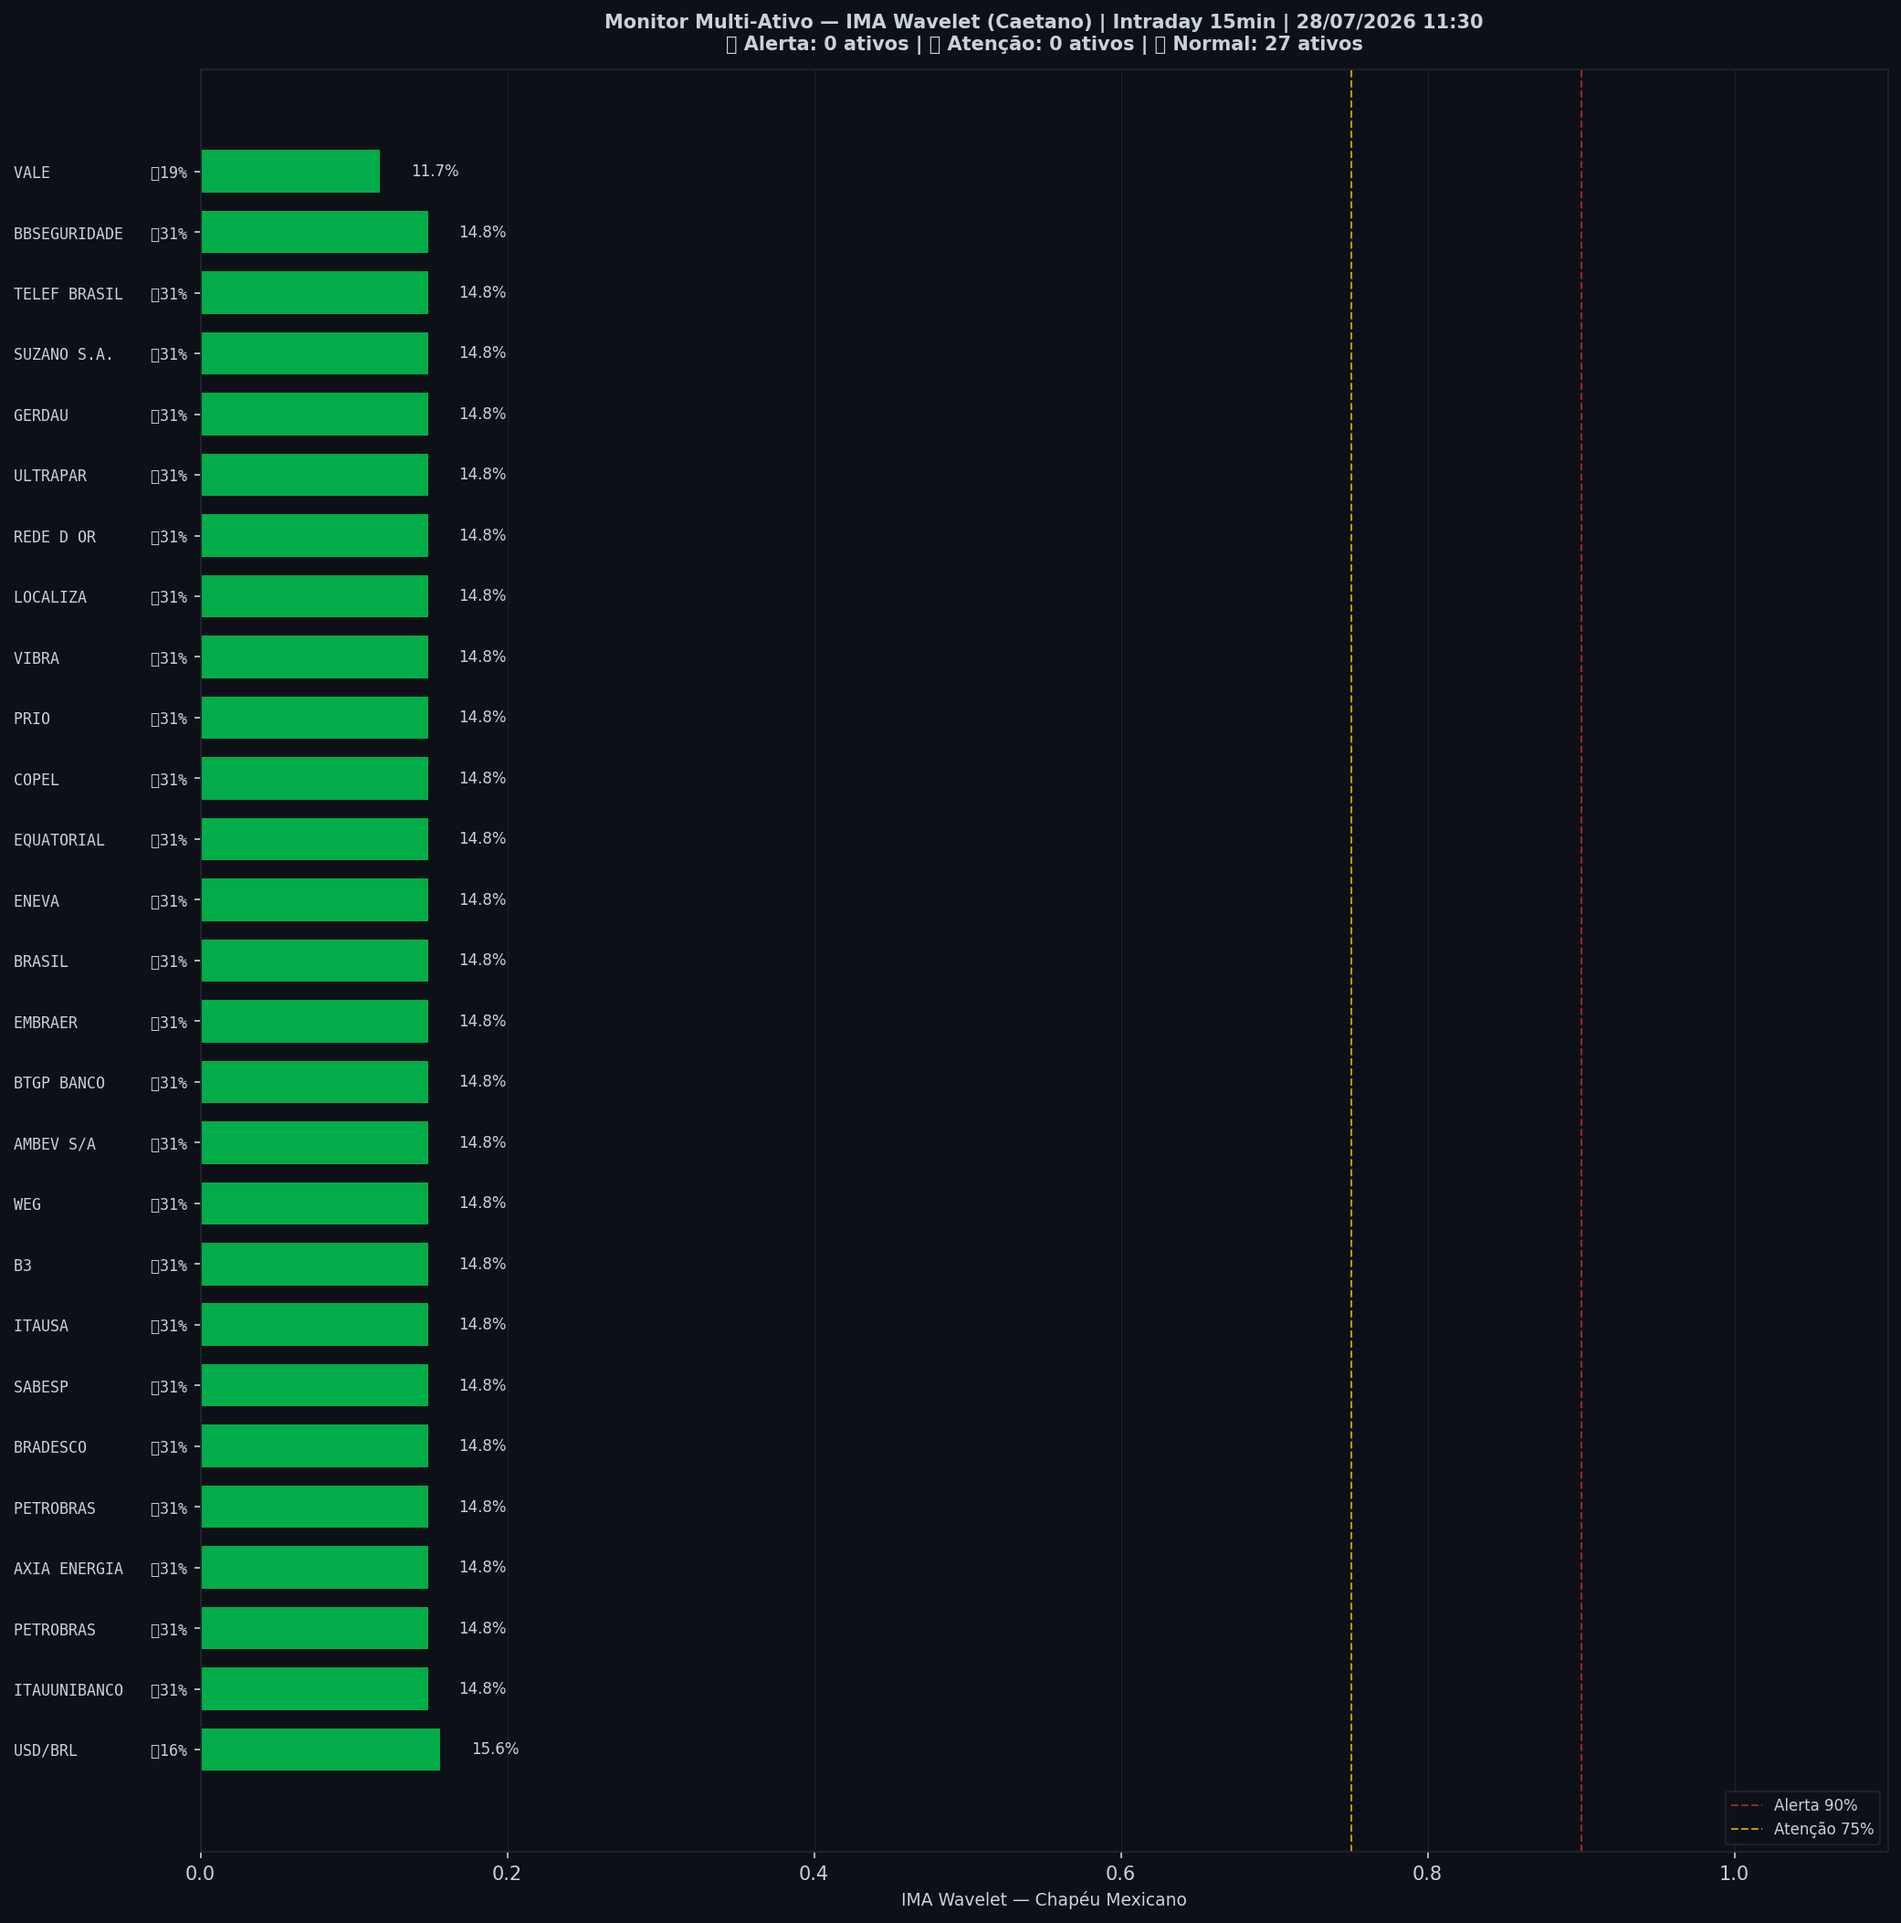
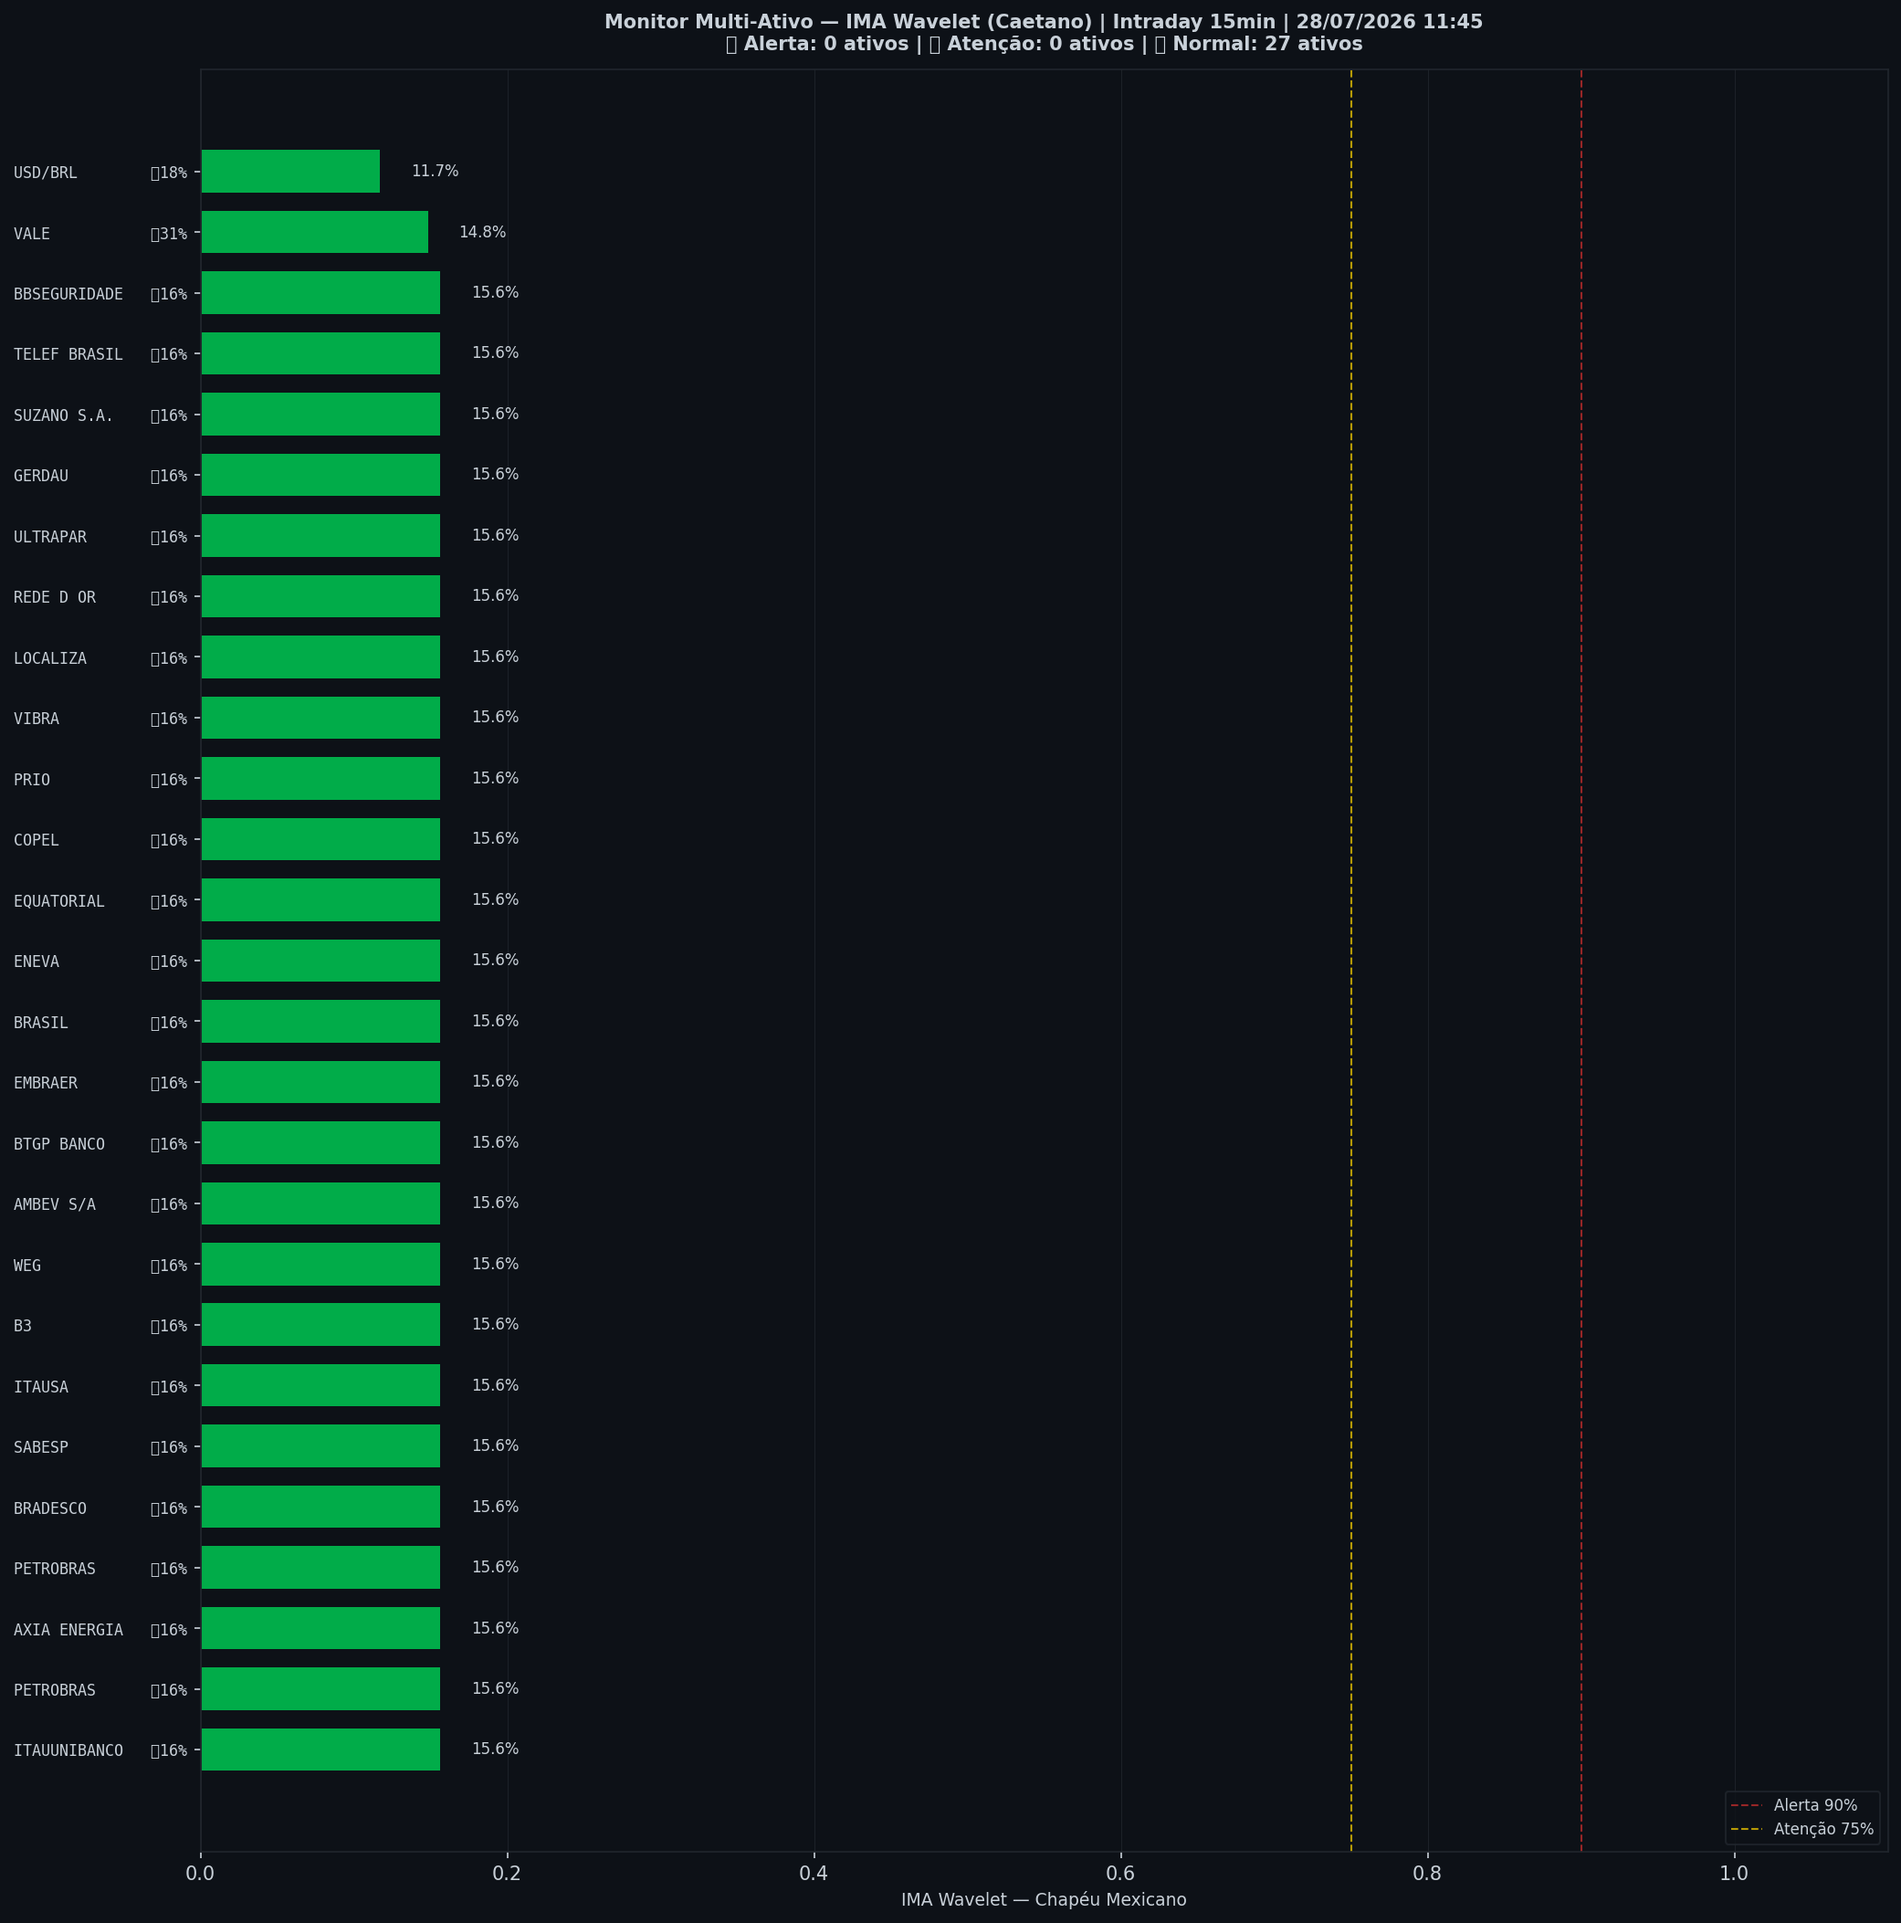
🤖 Auto: Sinal 28/07/2026 11:45

Changed region(s): [[0.2185, 0.1235, 0.2498, 0.8951], [0.0312, 0.1235, 0.0624, 0.1852], [0.0312, 0.8642, 0.0624, 0.8951]]

diff --git a/content/intraday/2026-07-28.md b/content/intraday/2026-07-28.md
@@ -1,20 +1,20 @@
 ---
-title: "🔴 Intraday 28/07/2026 10:45 BRT — VERMELHO"
+title: "🟢 Intraday 28/07/2026 11:00 BRT — VERDE"
 date: 2026-07-28
 tags: [intraday]
 ---
 
-> [!danger] 🔴 **VERMELHO** — Risco 100% · ▲ +71 p.p. vs leitura anterior
-> `████████████████████`
-> ALERTA DE CRISE — padrão pré-crise detectado.
+> [!success] 🟢 **VERDE** — Risco 36% · ▼ -64 p.p. vs leitura anterior
+> `███████░░░░░░░░░░░░░`
+> Mercado sem sinais relevantes de estresse.
 
 
 | Indicador | Valor |
 |---|---|
-| 🔴 ζ Crash — severidade da queda em curso | **100%** |
-| 🔵 ζ Entrada — estrutura de fundo | 0% |
+| 🔴 ζ Crash — severidade da queda em curso | **36%** |
+| 🔵 ζ Entrada — estrutura de fundo | 1% |
 | 🫧 LPPL DS-Confidence | 0% |
-| 📊 Ibovespa | 176.719 pts |
+| 📊 Ibovespa | 177.454 pts |
 
 ![Gráfico do sinal](../graficos/sinal_intraday.png)
 
@@ -22,6 +22,7 @@ tags: [intraday]
 
 | Data | Zona | Risco | IMA Crash | Entrada | LPPL |
 |---|---|---|---|---|---|
+| 2026-07-28 11:00 | 🟢 VERDE | **36%** | 36% | 1% | 0% |
 | 2026-07-28 10:45 | 🔴 VERMELHO | **100%** | 100% | 0% | 0% |
 | 2026-07-28 10:30 | 🟢 VERDE | **29%** | 29% | 1% | 0% |
 | 2026-07-28 10:15 | 🟢 VERDE | **25%** | 25% | 2% | 0% |
@@ -51,7 +52,6 @@ tags: [intraday]
 | 2026-07-27 11:15 | 🟢 VERDE | **5%** | 5% | 9% | 0% |
 | 2026-07-27 11:00 | 🟢 VERDE | **5%** | 5% | 13% | 0% |
 | 2026-07-27 10:45 | 🟢 VERDE | **4%** | 4% | 18% | 0% |
-| 2026-07-27 10:30 | 🟢 VERDE | **2%** | 2% | 26% | 0% |
 
 ## Monitor Multi-Ativo
 
@@ -59,37 +59,37 @@ tags: [intraday]
 
 | Zona | Ativo | Setor | IMA Crash | IMA Entrada |
 |---|---|---|---|---|
-| 🟢 | **USD/BRL** | Câmbio | 15.6% | 16.4% |
-| 🟢 | **ITAUUNIBANCO** | Financeiro | 14.8% | 31.2% |
-| 🟢 | **PETROBRAS** | Petróleo | 14.8% | 31.2% |
-| 🟢 | **AXIA ENERGIA** | Energia | 14.8% | 31.2% |
-| 🟢 | **PETROBRAS** | Petróleo | 14.8% | 31.2% |
-| 🟢 | **BRADESCO** | Financeiro | 14.8% | 31.2% |
-| 🟢 | **SABESP** | Saneamento | 14.8% | 31.2% |
-| 🟢 | **ITAUSA** | Financeiro | 14.8% | 31.2% |
-| 🟢 | **B3** | Financeiro | 14.8% | 31.2% |
-| 🟢 | **WEG** | Industrial | 14.8% | 31.2% |
-| 🟢 | **AMBEV S/A** | Consumo | 14.8% | 31.2% |
-| 🟢 | **BTGP BANCO** | Financeiro | 14.8% | 31.2% |
-| 🟢 | **EMBRAER** | Outros | 14.8% | 31.2% |
-| 🟢 | **BRASIL** | Financeiro | 14.8% | 31.2% |
-| 🟢 | **ENEVA** | Energia | 14.8% | 31.2% |
-| 🟢 | **EQUATORIAL** | Energia | 14.8% | 31.2% |
-| 🟢 | **COPEL** | Energia | 14.8% | 31.2% |
-| 🟢 | **PRIO** | Petróleo | 14.8% | 31.2% |
-| 🟢 | **VIBRA** | Energia | 14.8% | 31.2% |
-| 🟢 | **LOCALIZA** | Aluguel | 14.8% | 31.2% |
-| 🟢 | **REDE D OR** | Saúde | 14.8% | 31.2% |
-| 🟢 | **ULTRAPAR** | Outros | 14.8% | 31.2% |
-| 🟢 | **GERDAU** | Siderurgia | 14.8% | 31.2% |
-| 🟢 | **SUZANO S.A.** | Papel/Celulose | 14.8% | 31.2% |
-| 🟢 | **TELEF BRASIL** | Outros | 14.8% | 31.2% |
-| 🟢 | **BBSEGURIDADE** | Financeiro | 14.8% | 31.2% |
-| 🟢 | **VALE** | Mineração | 11.7% | 18.8% |
+| 🟢 | **ITAUUNIBANCO** | Financeiro | 15.6% | 16.4% |
+| 🟢 | **PETROBRAS** | Petróleo | 15.6% | 16.4% |
+| 🟢 | **AXIA ENERGIA** | Energia | 15.6% | 16.4% |
+| 🟢 | **PETROBRAS** | Petróleo | 15.6% | 16.4% |
+| 🟢 | **BRADESCO** | Financeiro | 15.6% | 16.4% |
+| 🟢 | **SABESP** | Saneamento | 15.6% | 16.4% |
+| 🟢 | **ITAUSA** | Financeiro | 15.6% | 16.4% |
+| 🟢 | **B3** | Financeiro | 15.6% | 16.4% |
+| 🟢 | **WEG** | Industrial | 15.6% | 16.4% |
+| 🟢 | **AMBEV S/A** | Consumo | 15.6% | 16.4% |
+| 🟢 | **BTGP BANCO** | Financeiro | 15.6% | 16.4% |
+| 🟢 | **EMBRAER** | Outros | 15.6% | 16.4% |
+| 🟢 | **BRASIL** | Financeiro | 15.6% | 16.4% |
+| 🟢 | **ENEVA** | Energia | 15.6% | 16.4% |
+| 🟢 | **EQUATORIAL** | Energia | 15.6% | 16.4% |
+| 🟢 | **COPEL** | Energia | 15.6% | 16.4% |
+| 🟢 | **PRIO** | Petróleo | 15.6% | 16.4% |
+| 🟢 | **VIBRA** | Energia | 15.6% | 16.4% |
+| 🟢 | **LOCALIZA** | Aluguel | 15.6% | 16.4% |
+| 🟢 | **REDE D OR** | Saúde | 15.6% | 16.4% |
+| 🟢 | **ULTRAPAR** | Outros | 15.6% | 16.4% |
+| 🟢 | **GERDAU** | Siderurgia | 15.6% | 16.4% |
+| 🟢 | **SUZANO S.A.** | Papel/Celulose | 15.6% | 16.4% |
+| 🟢 | **TELEF BRASIL** | Outros | 15.6% | 16.4% |
+| 🟢 | **BBSEGURIDADE** | Financeiro | 15.6% | 16.4% |
+| 🟢 | **VALE** | Mineração | 14.8% | 31.2% |
+| 🟢 | **USD/BRL** | Câmbio | 11.7% | 18.0% |
 
 ![Monitor multi-ativo](../graficos/multi_intraday.png)
 
-*Página atualizada em 28/07/2026 11:30 BRT (leitura da barra de 2026-07-28 10:45 BRT).*
+*Página atualizada em 28/07/2026 11:45 BRT (leitura da barra de 2026-07-28 11:00 BRT).*
 
 > [!info]- Como interpretar (clique para expandir)
 > - **ζ Crash**: fração dos coeficientes wavelet acima do corte (Caetano & Yoneyama 2009). Escala absoluta: ζ=0,90 = 90% dos coeficientes anômalos — historicamente, quedas com ζ≥0,90 foram mais fundas e mais longas. **Mede a severidade do movimento em curso, não prevê o início da queda.**

diff --git a/content/index.md b/content/index.md
@@ -4,23 +4,23 @@ date: 2026-07-28
 tags: [home]
 ---
 
-# 🔴 Sinal de Crise B3
+# 🟢 Sinal de Crise B3
 
 Monitoramento diário e intraday do Ibovespa — **IMA Wavelet** (Prof. Marco Antonio Leonel Caetano, ITA/INSPER) + **LPPL DS-Confidence** (Prof. Didier Sornette, ETH-Zurich).
 
-*Última atualização: 28/07/2026 11:30 BRT · ^BVSP · Intraday 15min · v4*
+*Última atualização: 28/07/2026 11:45 BRT · ^BVSP · Intraday 15min · v4*
 
-> [!danger] 🔴 **VERMELHO** — Risco 100% · ▲ +71 p.p. vs leitura anterior
-> `████████████████████`
-> ALERTA DE CRISE — padrão pré-crise detectado.
+> [!success] 🟢 **VERDE** — Risco 36% · ▼ -64 p.p. vs leitura anterior
+> `███████░░░░░░░░░░░░░`
+> Mercado sem sinais relevantes de estresse.
 
 
 | Indicador | Valor |
 |---|---|
-| 🔴 ζ Crash — severidade da queda em curso | **100%** |
-| 🔵 ζ Entrada — estrutura de fundo | 0% |
+| 🔴 ζ Crash — severidade da queda em curso | **36%** |
+| 🔵 ζ Entrada — estrutura de fundo | 1% |
 | 🫧 LPPL DS-Confidence | 0% |
-| 📊 Ibovespa | 176.719 pts |
+| 📊 Ibovespa | 177.454 pts |
 
 **Multi-ativo:** 0% em tensão (0🔴 0🟡 de 27 ativos)
 
@@ -32,7 +32,7 @@ Monitoramento diário e intraday do Ibovespa — **IMA Wavelet** (Prof. Marco An
 
 | Data | Zona | Risco | IMA | LPPL |
 |---|---|---|---|---|
-| [28 Jul 2026](diario/2026-07-28) | 🔴 VERMELHO | **100%** | 100% | 0% |
+| [28 Jul 2026](diario/2026-07-28) | 🟢 VERDE | **36%** | 36% | 0% |
 | [27 Jul 2026](diario/2026-07-27) | 🟢 VERDE | **4%** | 4% | 0% |
 
 ## Navegação

diff --git a/content/historico.md b/content/historico.md
@@ -7,6 +7,7 @@ tags: [historico]
 
 | Data | Modo | Zona | Risco | IMA | LPPL |
 |---|---|---|---|---|---|
+| 2026-07-28 11:00 | intraday | 🟢 VERDE | 36% | 36% | 0% |
 | 2026-07-28 10:45 | intraday | 🔴 VERMELHO | 100% | 100% | 0% |
 | 2026-07-28 10:30 | intraday | 🟢 VERDE | 29% | 29% | 0% |
 | 2026-07-28 10:15 | intraday | 🟢 VERDE | 25% | 25% | 0% |
